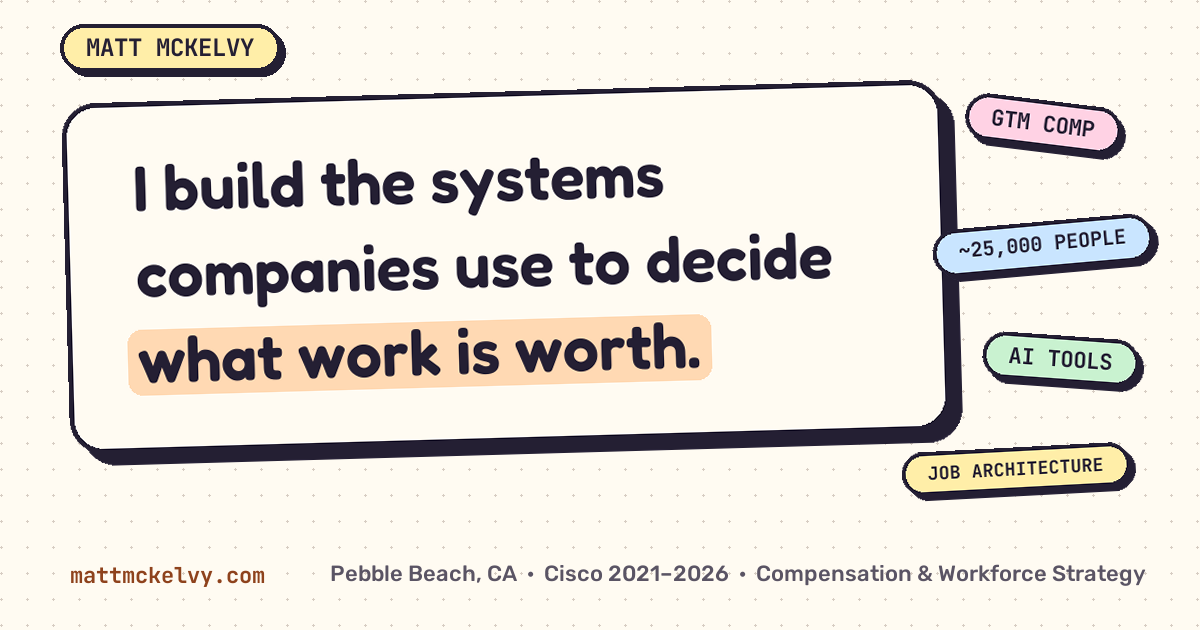
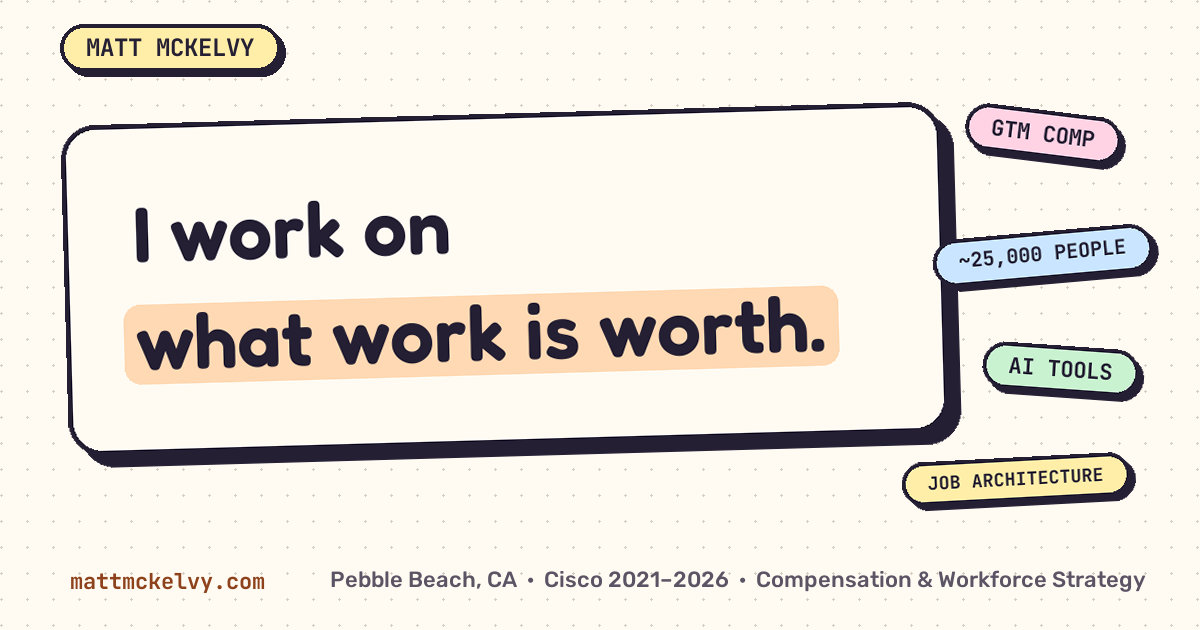
v3.1: mobile fix + exhibit-mode copy
- Fix: stage height was a hard-coded guess (100svh - 116px) while the
  wrapped mobile header is taller — bottom of every panel was cut off
  on phones. Header + stage are now real flex rows; the hero scrolls
  internally if it ever overflows.
- Fix: tab row overflowed at 421-560px widths (iPhone Pro Max);
  compact tabs now apply <=560px, and <=360px swaps Experience -> CV
- Fix: on resize/rotate, sleeping chips stranded outside the new box
  stayed frozen offscreen — now woken and rained back in from the top
- Copy cut roughly in half site-wide: overview, not pitch. New
  headline "I work on what work is worth." OG card regenerated.
- Tested at 320/375/390/414/430/768/834/1024/1280/1440 + landscape

diff --git a/index.html b/index.html
@@ -4,7 +4,7 @@
   <meta charset="utf-8">
   <meta name="viewport" content="width=device-width, initial-scale=1, viewport-fit=cover">
   <title>Matt McKelvy — Compensation &amp; Workforce Strategy</title>
-  <meta name="description" content="Five years at Cisco advising a ~25,000-person commercial organization on compensation, benchmarking, job architecture, and offer decisions — with AI-built tooling. Pebble Beach, CA.">
+  <meta name="description" content="Compensation, benchmarking, and job architecture for a ~25,000-person sales org at Cisco — with AI-built tooling. Pebble Beach, CA.">
   <link rel="canonical" href="https://mattmckelvy.com/">
   <meta name="color-scheme" content="light">
   <meta name="theme-color" content="#FFFBF2">
@@ -12,14 +12,14 @@
   <meta property="og:type" content="website">
   <meta property="og:site_name" content="Matt McKelvy">
   <meta property="og:title" content="Matt McKelvy — Compensation &amp; Workforce Strategy">
-  <meta property="og:description" content="I build the systems companies use to decide what work is worth. Five years at Cisco: GTM comp, benchmarking, job architecture, and decision tools built with AI.">
+  <meta property="og:description" content="I work on what work is worth. Comp, benchmarking, and job architecture at Cisco — with AI-built tools.">
   <meta property="og:url" content="https://mattmckelvy.com/">
   <meta property="og:image" content="https://mattmckelvy.com/og.png">
   <meta property="og:image:width" content="1200">
   <meta property="og:image:height" content="630">
   <meta name="twitter:card" content="summary_large_image">
   <meta name="twitter:title" content="Matt McKelvy — Compensation &amp; Workforce Strategy">
-  <meta name="twitter:description" content="I build the systems companies use to decide what work is worth.">
+  <meta name="twitter:description" content="I work on what work is worth.">
   <meta name="twitter:image" content="https://mattmckelvy.com/og.png">
 
   <link rel="icon" type="image/svg+xml" href="favicon.svg">
@@ -27,7 +27,7 @@
   <link rel="preconnect" href="https://fonts.googleapis.com">
   <link rel="preconnect" href="https://fonts.gstatic.com" crossorigin>
   <link href="https://fonts.googleapis.com/css2?family=Fredoka:wght@500;600&family=Rubik:wght@400;500;600;700&family=JetBrains+Mono:wght@400;500;700&display=swap" rel="stylesheet">
-  <link rel="stylesheet" href="css/site.css?v=4">
+  <link rel="stylesheet" href="css/site.css?v=6">
 
   <script type="application/ld+json">
   {
@@ -55,7 +55,7 @@
     <nav class="tabs" role="tablist" aria-label="Sections">
       <button role="tab" aria-selected="true"  aria-controls="p-home" id="t-home" data-panel="home">Hello</button>
       <button role="tab" aria-selected="false" aria-controls="p-story" id="t-story" data-panel="story">Story</button>
-      <button role="tab" aria-selected="false" aria-controls="p-exp" id="t-exp" data-panel="exp">Experience</button>
+      <button role="tab" aria-selected="false" aria-controls="p-exp" id="t-exp" data-panel="exp"><span class="tab-full">Experience</span><span class="tab-mini" aria-hidden="true">CV</span></button>
       <button role="tab" aria-selected="false" aria-controls="p-work" id="t-work" data-panel="work">Work</button>
       <button role="tab" aria-selected="false" aria-controls="p-skills" id="t-skills" data-panel="skills">Skills</button>
       <button role="tab" aria-selected="false" aria-controls="p-contact" id="t-contact" data-panel="contact">Contact</button>
@@ -70,16 +70,16 @@
       <div class="hero-grid">
         <div class="hero-copy">
           <p class="eyebrow">Matt McKelvy · Compensation &amp; Workforce Strategy · Pebble Beach, CA</p>
-          <h1 class="display">I build the systems companies use to decide <mark class="hl hl-a">what work is worth</mark>.</h1>
-          <p class="lede">Five years at Cisco advising a <mark class="hl hl-b">~25,000-person</mark> commercial organization — compensation structure, market benchmarking, job architecture, and the offer decisions in between. When the tool didn't exist, <mark class="hl hl-c">I built it</mark>. Lately, with AI.</p>
+          <h1 class="display">I work on <mark class="hl hl-a">what work is worth</mark>.</h1>
+          <p class="lede">Five years at Cisco — compensation, benchmarking, and job architecture for a <mark class="hl hl-b">~25,000-person</mark> sales org. When a tool didn't exist, <mark class="hl hl-c">I built it</mark>.</p>
           <div class="actions">
-            <button class="btn solid" type="button" data-goto="story" data-hover>Start the tour</button>
+            <button class="btn solid" type="button" data-goto="story" data-hover>Look around</button>
             <a class="btn" href="mailto:mckelvymatthew@gmail.com" data-hover>Email me</a>
           </div>
         </div>
         <figure class="hero-pit">
           <div id="pit" role="img" aria-label="A toy box of draggable stickers naming the work: GTM comp, ~25,000 people, job architecture, market data, offers, ranges, Tableau, Workday, Excel, AI tools, M&amp;A. Drag to throw them around."></div>
-          <figcaption>Five years of work, now with gravity.<br><span>Grab a sticker. Throw it. Double-tap to shake the box.</span></figcaption>
+          <figcaption>The work, with gravity. <span>Grab one. Throw it. Double-tap to shake.</span></figcaption>
         </figure>
       </div>
     </section>
@@ -88,12 +88,12 @@
     <section class="panel" id="p-story" role="tabpanel" aria-labelledby="t-story" hidden>
       <div class="panel-inner">
         <h2 class="h2">One question, asked <mark class="hl hl-b">harder every&nbsp;year</mark>.</h2>
-        <p class="prose"><em>How should an organization structure — and pay for — its work?</em> I started with the shape of teams, moved to the price of talent in one market, then took both at once for Cisco's commercial organization. The instruments kept upgrading: spreadsheets → models → dashboards → AI-built systems. The question never changed.</p>
+        <p class="prose"><em>How should an organization structure — and pay for — its work?</em> Same question since 2021. Only the instruments changed: spreadsheets → models → dashboards → AI.</p>
         <ol class="throughline">
-          <li class="tone-peach" data-hover><span class="tl-when">2021</span><h3>Workforce &amp; org strategy</h3><p>The shape of organizations — attrition, grade distribution, org design across Sales and Finance.</p></li>
-          <li class="tone-butter" data-hover><span class="tl-when">2023</span><h3>Regional compensation</h3><p>The price of talent — benchmarking Cisco's UK pay against market for regional strategy.</p></li>
-          <li class="tone-sky" data-hover><span class="tl-when">2023–26</span><h3>GTM compensation</h3><p>Structure and price together for ~25,000 people — ranges, offers, exceptions, acquisitions.</p></li>
-          <li class="tone-mint" data-hover><span class="tl-when">Now</span><h3>AI-era comp infrastructure</h3><p>Rebuilding the machinery itself — architecture, decision tools, and workflows built with AI.</p></li>
+          <li class="tone-peach" data-hover><span class="tl-when">2021</span><h3>Workforce &amp; org strategy</h3><p>Attrition, grades, org design — Sales &amp; Finance.</p></li>
+          <li class="tone-butter" data-hover><span class="tl-when">2023</span><h3>Regional compensation</h3><p>Cisco's UK pay, benchmarked against market.</p></li>
+          <li class="tone-sky" data-hover><span class="tl-when">2023–26</span><h3>GTM compensation</h3><p>Ranges, offers, exceptions — ~25,000 people.</p></li>
+          <li class="tone-mint" data-hover><span class="tl-when">Now</span><h3>AI-era comp tools</h3><p>Decision tools and architecture, built with AI.</p></li>
         </ol>
       </div>
     </section>
@@ -107,12 +107,12 @@
             <div><h3>Compensation Analyst</h3><p class="role-org">Go-to-Market Organization · Los Gatos, CA</p></div>
             <p class="role-dates">Oct 2023 – Jul 2026</p>
           </header>
-          <p class="mandate"><span>Mandate</span> Trusted comp advisor to leaders of a global commercial organization — sales and marketing, ~25,000 people — on structure, workforce planning, and resource allocation.</p>
+          <p class="mandate"><span>Focus</span> Comp advisor to go-to-market leaders — structure, workforce planning, allocation.</p>
           <ul class="role-points">
-            <li>Led an AI-assisted job architecture refresh — hundreds of role cards structured into new families, groups, and titles — and won sign-off from comp leads in every Cisco business unit ahead of Workday implementation.</li>
-            <li>Built and shipped a modeling tool for out-of-range offer exceptions: external market data, internal range positioning, and headcount by level on one screen. Market context and internal consistency, finally in the same room.</li>
-            <li>Traced mass APJC attrition to market reference ranges that had drifted below peers; drove the full recalibration.</li>
-            <li>Built the Tableau dashboard mapping acquired Splunk roles onto Cisco's structure for post-acquisition comp decisions.</li>
+            <li>AI-assisted job architecture refresh — hundreds of roles, signed off by every business unit.</li>
+            <li>Offer-exception model: market data, ranges, and headcount on one screen.</li>
+            <li>Traced APJC attrition to drifted pay ranges; drove the recalibration.</li>
+            <li>Tableau dashboard mapping Splunk roles onto Cisco, post-acquisition.</li>
           </ul>
         </article>
         <article class="role tone-butter">
@@ -121,7 +121,7 @@
             <p class="role-dates">Feb – Oct 2023</p>
           </header>
           <ul class="role-points">
-            <li>Led market benchmarking of Cisco's UK compensation against peer data; org and workforce analyses for regional strategic planning.</li>
+            <li>Benchmarked Cisco's UK compensation against peer market data.</li>
           </ul>
         </article>
         <article class="role tone-sky">
@@ -130,8 +130,8 @@
             <p class="role-dates">Aug 2021 – Feb 2023</p>
           </header>
           <ul class="role-points">
-            <li>Drove a global workforce strategy program across Sales and Finance; built the business case behind Cisco's FY2022 org design playbook.</li>
-            <li>Attrition, time-in-grade, and grade-distribution analyses in Workday Adaptive Planning, presented company-wide. Chief of Staff for FLEX, Cisco's HR rotational program.</li>
+            <li>Global workforce strategy across Sales and Finance; business case for the FY2022 org design playbook.</li>
+            <li>Chief of Staff, FLEX — Cisco's HR rotational program.</li>
           </ul>
         </article>
       </div>
@@ -152,11 +152,11 @@
           </button>
           <button class="wcard tone-sky" type="button" data-case="c3" data-hover>
             <span class="wk">03</span><h3>The offer-exception model</h3>
-            <p>Three data sources, one decision screen.</p>
+            <p>Three data sources, one screen.</p>
           </button>
           <button class="wcard tone-mint" type="button" data-case="c4" data-hover>
             <span class="wk">04</span><h3>Mapping Splunk onto Cisco</h3>
-            <p>M&amp;A comp integration, made inspectable.</p>
+            <p>M&amp;A comp, made inspectable.</p>
           </button>
         </div>
 
@@ -169,35 +169,27 @@
 
         <template id="tpl-c1">
           <h3 id="caseTitle">The attrition nobody could explain</h3>
-          <p><b>Problem.</b> Roles across the APJC region — GTM, operations, engineering — were bleeding people, and the losses didn't map to any team or manager.</p>
-          <p><b>My role.</b> Spotted the pattern. Owned the diagnosis.</p>
-          <p><b>The system.</b> Cross-referencing attrition against comp positioning showed the mechanism: market reference ranges had quietly drifted below peer benchmarks. Not culture. Pricing. I drove the full recalibration.</p>
-          <p><b>Value.</b> Retention problems get expensive twice — departures, then the wrong fixes. This fixed the cause.</p>
-          <p class="case-signal">Signal — I look for the system underneath the symptom.</p>
+          <p><b>Problem.</b> APJC roles were bleeding people, and no team or manager explained it.</p>
+          <p><b>Found.</b> Pay ranges had quietly drifted below market. Pricing, not culture — recalibrated.</p>
+          <p class="case-signal">The system underneath the symptom.</p>
         </template>
         <template id="tpl-c2">
           <h3 id="caseTitle">Job architecture, rebuilt with AI</h3>
-          <p><b>Problem.</b> Ahead of a Workday implementation, the job architecture — families, groups, titles; the skeleton every pay decision hangs on — needed a full refresh.</p>
-          <p><b>My role.</b> Led the refresh, carried it through alignment.</p>
-          <p><b>The system.</b> AI tooling to scrape and structure hundreds of role cards into a new architecture. Then the harder half: sign-off from compensation leads in every Cisco business unit.</p>
-          <p><b>Value.</b> Architecture is load-bearing — get it wrong and every downstream decision inherits the error. Shipped aligned, on time.</p>
-          <p class="case-signal">Signal — AI for the volume, judgment for the taxonomy, patience for the politics.</p>
+          <p><b>Problem.</b> The job architecture — families, groups, titles — needed a full refresh before Workday.</p>
+          <p><b>Built.</b> AI structured hundreds of role cards; comp leads in every business unit signed off.</p>
+          <p class="case-signal">AI for the volume, judgment for the taxonomy.</p>
         </template>
         <template id="tpl-c3">
           <h3 id="caseTitle">The offer-exception model</h3>
-          <p><b>Problem.</b> Out-of-range offer exceptions were decided on fragmented evidence — market data here, internal positioning there, headcount somewhere else.</p>
-          <p><b>My role.</b> Designed and shipped the tool myself, with AI tooling — no engineering queue.</p>
-          <p><b>The system.</b> One screen: external market context, internal range consistency, headcount by level. The trade-offs visible instead of implied.</p>
-          <p><b>Value.</b> Exception calls moved from assembled-by-hand to answered-on-sight.</p>
-          <p class="case-signal">Signal — when structure doesn't exist, I build it.</p>
+          <p><b>Problem.</b> Out-of-range offers were decided on scattered evidence.</p>
+          <p><b>Built.</b> One screen: market data, range positioning, headcount by level. Shipped it myself, with AI.</p>
+          <p class="case-signal">No tool? Build the tool.</p>
         </template>
         <template id="tpl-c4">
           <h3 id="caseTitle">Mapping Splunk onto Cisco</h3>
-          <p><b>Problem.</b> An acquisition brought thousands of employees whose roles and pay structures had to reconcile with Cisco's.</p>
-          <p><b>My role.</b> Built the comparison layer comp decisions ran on.</p>
-          <p><b>The system.</b> A Tableau dashboard mapping acquired roles against Cisco's job structure — one shared view of how two companies actually lined up.</p>
-          <p><b>Value.</b> Integration comp done badly seeds years of internal-equity problems. This made the calls inspectable.</p>
-          <p class="case-signal">Signal — messy org data, turned into an instrument people decide with.</p>
+          <p><b>Problem.</b> Thousands of acquired roles to reconcile with Cisco's structure.</p>
+          <p><b>Built.</b> A Tableau map of how the two companies actually lined up, for the comp calls that followed.</p>
+          <p class="case-signal">Messy org data → an instrument.</p>
         </template>
       </div>
     </section>
@@ -223,9 +215,9 @@
           <span class="skill" data-hover>Tableau</span>
           <span class="skill" data-hover>Excel, the deep end</span>
           <span class="skill" data-hover>AI-assisted tool building</span>
-          <span class="skill" data-hover>Cross-functional alignment — HR · Finance · hiring teams</span>
+          <span class="skill" data-hover>Cross-functional alignment</span>
         </div>
-        <p class="ai-note"><b>Why this stack compounds now:</b> comp and workforce data is exactly the fragmented infrastructure AI finally makes powerful — and the models still don't know the org. I've spent five years as the translation layer, and the last two building with the tools.</p>
+        <p class="ai-note"><b>Why it compounds:</b> comp data is exactly what AI finally makes useful — I build with both.</p>
       </div>
     </section>
 
@@ -253,7 +245,7 @@
   </main>
 
   <script src="js/matter.min.js?v=3" defer></script>
-  <script src="js/pit.js?v=7" defer></script>
+  <script src="js/pit.js?v=9" defer></script>
   <script src="js/site.js?v=3" defer></script>
 </body>
 </html>

diff --git a/css/site.css b/css/site.css
@@ -29,6 +29,8 @@
 *{box-sizing:border-box;margin:0;padding:0}
 html,body{height:100%}
 body{
+  display:flex;flex-direction:column;
+  height:100%;height:100svh;height:100dvh;
   background:
     radial-gradient(1px 1px at 50% 50%, hsl(var(--hue) 30% 60% / .18) 1px, transparent 1px) 0 0/26px 26px,
     radial-gradient(120% 100% at 85% 8%, hsl(calc(var(--hue) + 70) 85% 90% / .9) 0%, transparent 55%),
@@ -58,8 +60,9 @@ a{color:inherit}
 
 /* ---------------- header ---------------- */
 .top{
+  flex:none;
   display:flex;align-items:center;gap:14px;
-  height:66px;padding:0 var(--gutter);
+  min-height:66px;padding:0 var(--gutter);
   border-bottom:var(--bw) solid var(--ink);
   background:hsl(var(--hue) 64% 97% / .7);
 }
@@ -100,8 +103,10 @@ a{color:inherit}
 .top-cta:active{transform:translate(2px,2px);box-shadow:1px 1px 0 var(--ink)}
 .top-cta .pdf{font:700 9px/1 var(--mono);color:var(--ink);border:1.5px solid var(--ink);border-radius:4px;padding:2px 4px;background:var(--pink)}
 
-/* ---------------- stage & panels ---------------- */
-.stage{position:relative;height:calc(100svh - 66px);height:calc(100dvh - 66px);overflow:hidden}
+/* ---------------- stage & panels ----------------
+   The stage takes whatever height remains under the header (flex),
+   so nothing is ever cut off by a hard-coded header-height guess. */
+.stage{position:relative;flex:1;min-height:0;overflow:hidden}
 .panel{
   position:absolute;inset:0;display:flex;align-items:center;justify-content:center;
   padding:clamp(16px,3vh,40px) var(--gutter);
@@ -298,28 +303,40 @@ a{color:inherit}
 
 /* ---------------- responsive ---------------- */
 @media (max-width:960px){
-  .hero-grid{grid-template-columns:1fr;gap:14px;align-content:start}
+  .hero-grid{
+    grid-template-columns:1fr;gap:14px;align-content:start;
+    max-height:100%;overflow-y:auto;overscroll-behavior:contain;
+    padding:2px;
+  }
   .hero-pit{order:-1}
-  #pit{aspect-ratio:auto;height:min(34svh,300px)}
+  #pit{aspect-ratio:auto;height:min(32svh,300px);flex:none}
   .panel{align-items:flex-start}
   .panel-inner{max-height:100%}
 }
 @media (max-width:760px){
-  .top{height:auto;flex-wrap:wrap;padding-top:10px;padding-bottom:10px;gap:8px}
+  .top{flex-wrap:wrap;padding-top:8px;padding-bottom:8px;gap:8px}
   .keycap{order:1}.top-cta{order:2;margin-left:auto}
   .tabs{order:3;width:100%;justify-content:flex-start}
-  .stage{height:calc(100svh - 116px);height:calc(100dvh - 116px)}
+  .keycap-top{font-size:15px;padding:7px 9px 6px}
   .throughline{grid-template-columns:repeat(2,1fr)}
   .workgrid{grid-template-columns:1fr}
   .display{font-size:clamp(26px,7vw,36px)}
   .facts{grid-template-columns:1fr}
   .contact-card{padding:22px 18px}
 }
+@media (max-width:560px){
+  .tabs{gap:0;justify-content:space-between}
+  .tabs [role="tab"]{font-size:11.5px;letter-spacing:0;padding:9px 7px;border-width:1.5px}
+}
 @media (max-width:420px){
   .throughline{grid-template-columns:1fr}
   .actions .btn{flex:1;justify-content:center}
-  .tabs{gap:0;justify-content:space-between}
-  .tabs [role="tab"]{font-size:11.5px;letter-spacing:0;padding:9px 7px;border-width:1.5px}
+}
+.tab-mini{display:none}
+@media (max-width:360px){
+  .tabs [role="tab"]{font-size:10.5px;padding:8px 4px}
+  .tab-full{display:none}
+  .tab-mini{display:inline}
 }
 
 /* ---------------- reduced motion ---------------- */
@@ -334,7 +351,7 @@ a{color:inherit}
 
 /* ---------------- print ---------------- */
 @media print{
-  body{overflow:visible;background:#fff}
+  body{overflow:visible;background:#fff;display:block;height:auto}
   .top,.cursor,.cursor-ring,.hero-pit,.actions{display:none!important}
   .stage{height:auto;overflow:visible}
   .panel{position:static;opacity:1;transform:none;visibility:visible;display:block;padding:16px 0}

diff --git a/js/pit.js b/js/pit.js
@@ -187,8 +187,15 @@
       Composite.remove(world, walls);
       walls = makeWalls(W, H);
       Composite.add(world, walls);
+      /* wake everything so the pile resettles against the new walls,
+         and rain any chip stranded outside the new box back in from the top */
       chips.forEach(function (b) {
-        if (b.position.x > W - 10) Body.setPosition(b, { x: W - 30, y: Math.min(b.position.y, H - 30) });
+        Matter.Sleeping.set(b, false);
+        if (b.position.y > H - 8 || b.position.x < 24 || b.position.x > W - 24) {
+          Body.setPosition(b, { x: 24 + Math.random() * Math.max(1, W - 48), y: -30 - Math.random() * 120 });
+          Body.setVelocity(b, { x: 0, y: 0 });
+          Body.setAngularVelocity(b, 0);
+        }
       });
     }
     size();
